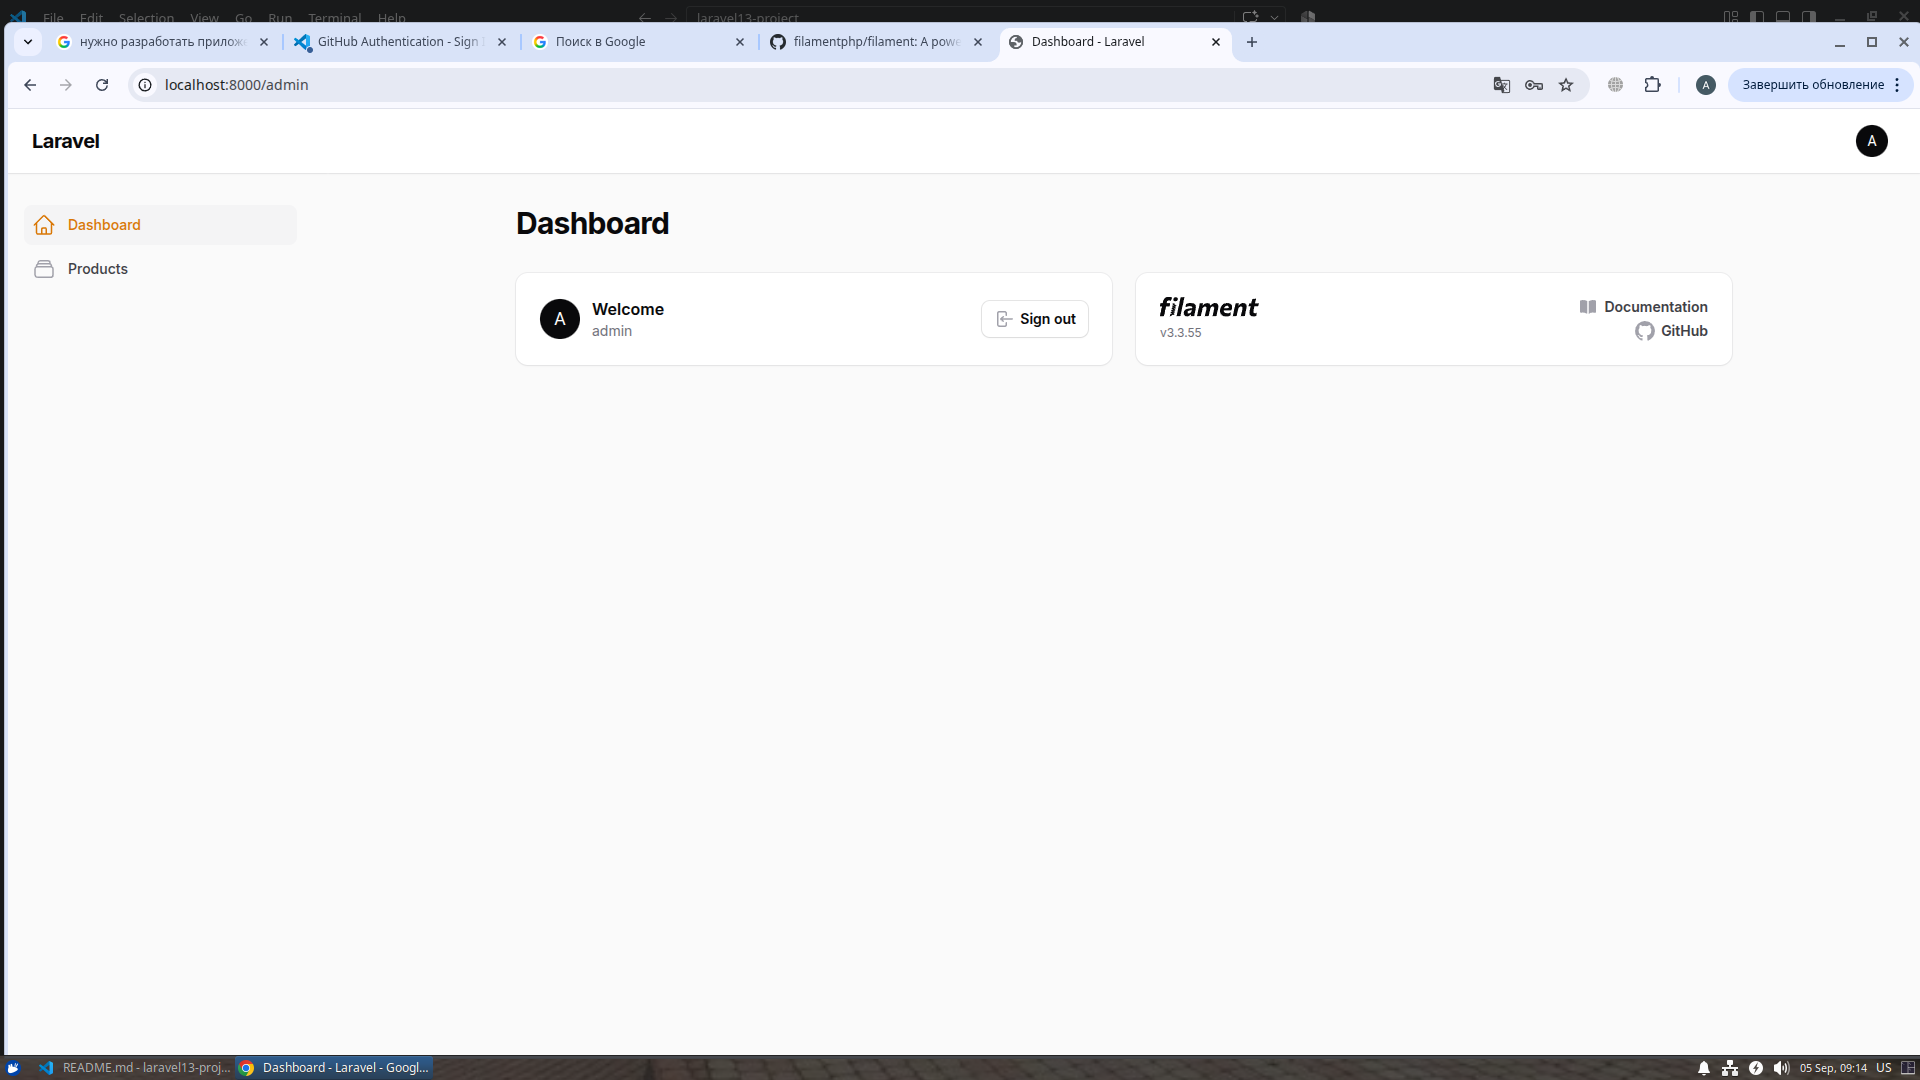
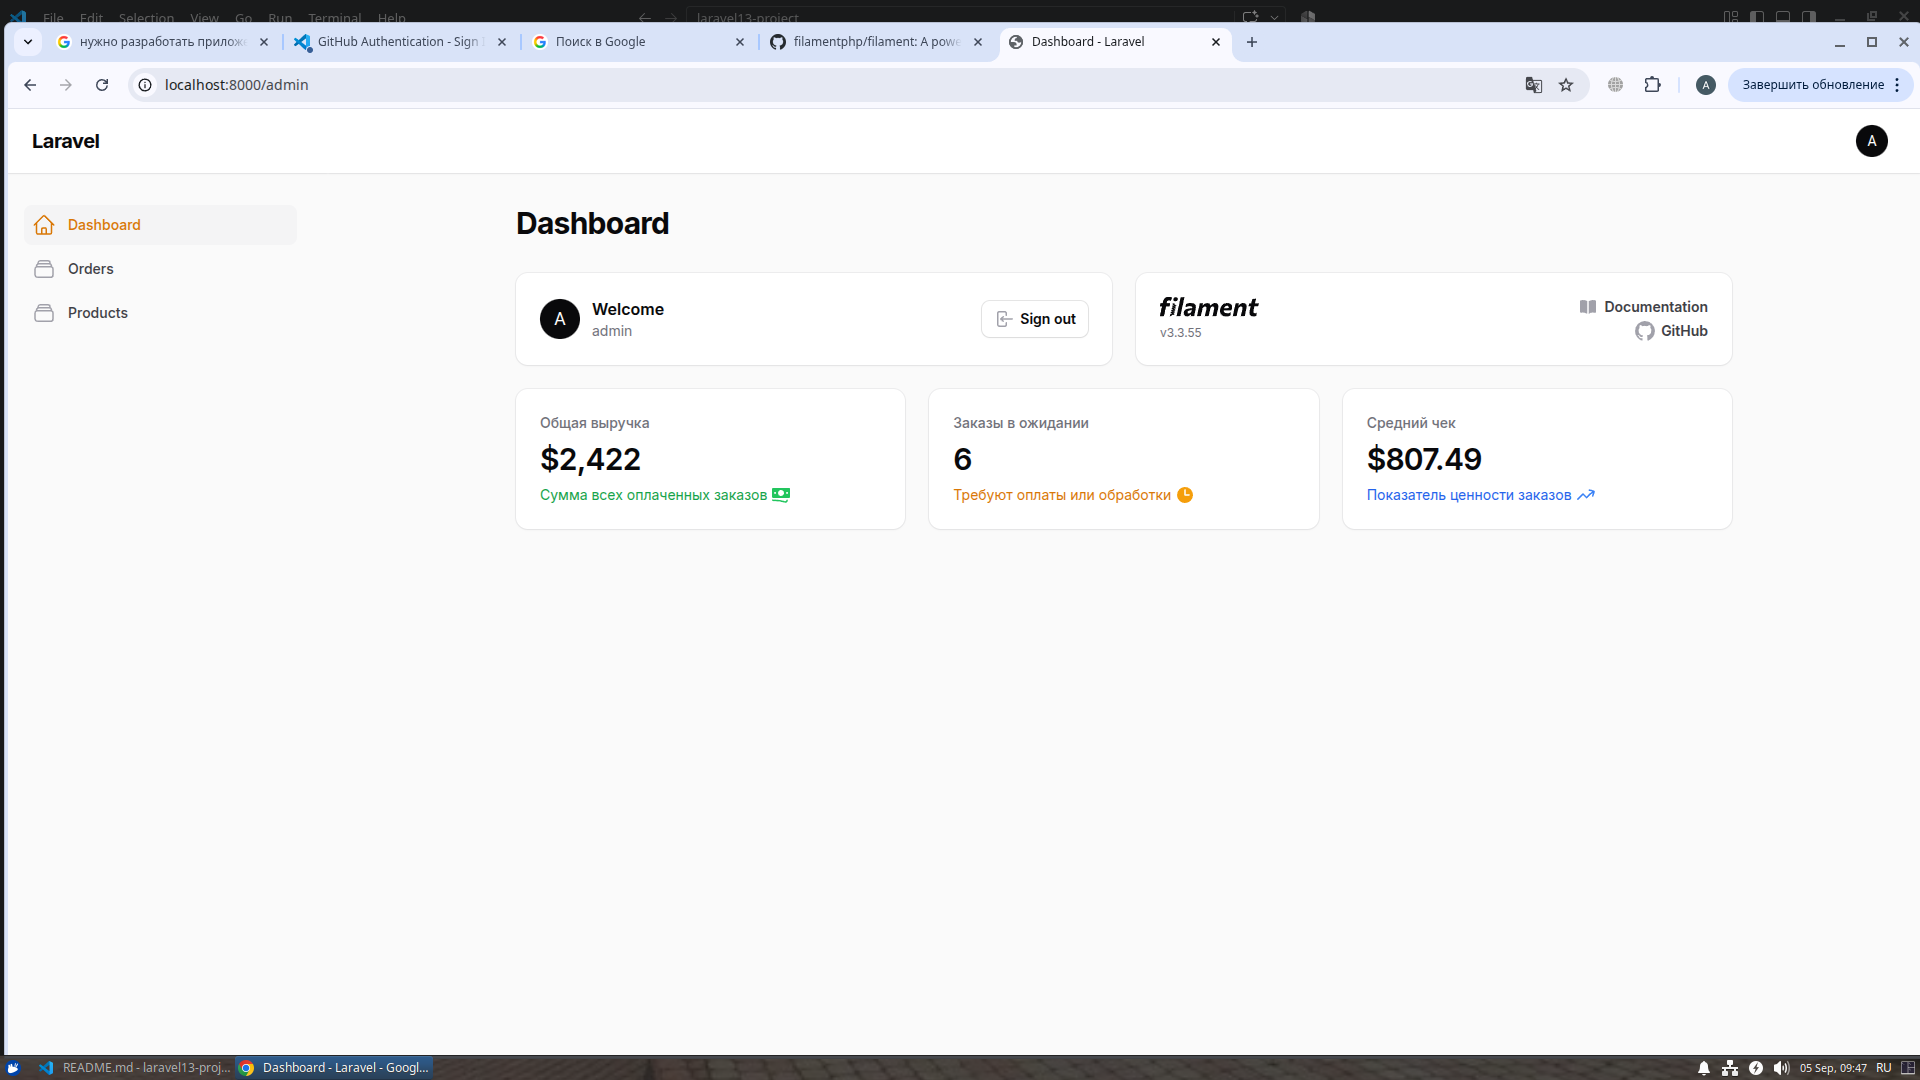
doc: Обновлена документация к проекту

diff --git a/README.md b/README.md
@@ -1,21 +1,84 @@
-## Запуск сервера
+# 🛒 Marketplace Enterprise Core (Laravel 13 DDD)
+
+Высокомасштабируемое бэкенд-ядро (REST API) для мультивендорного маркетплейса. Проект реализован с использованием **Domain-Driven Design (DDD)**, **CQRS** и **Event-Driven Architecture** для обеспечения максимальной изоляции бизнес-логики и отказоустойчивости под высокой нагрузкой.
+
+---
+
+## 🏗 Архитектурный стек и Senior-паттерны
+
+* **Domain-Driven Design (DDD):** Кодовая база разделена на независимые бизнес-домены внутри директории `src/Domain/` (`Products`, `Orders`). Слой HTTP (контроллеры и запросы) изолирован в папке `app/`.
+* **Laravel 13 Native Attributes:** Для конфигурации Eloquent-моделей (таблицы, связи, заполняемые поля `Fillable` и кастинги типов) используются современные PHP-атрибуты вместо классических защищенных массивов.
+* **Строгая типизация (DTO):** Передача данных между HTTP-слоем и бизнес-логикой осуществляется через строго типизированные объекты переноса данных (`ProductData`, `OrderData`), что исключает использование "слепых" массивов.
+* **Защита от Race Conditions (ACID):** Оформление заказов со списанием остатков товаров защищено на уровне СУБД с помощью пессимистической блокировки строк (`lockForUpdate`) внутри атомарных транзакций.
+* **Event-Driven Architecture:** Тяжелые побочные процессы (отправка уведомлений, интеграция с CRM) вынесены в асинхронные фоновые очереди через механизм доменных событий (`OrderCreated`).
+* **Паттерн Strategy (Изоляция инфраструктуры):** Слой платежных систем полностью абстрагирован через интерфейсы (`PaymentGatewayInterface`). Приложение работает с контрактом, что позволяет сменить эквайринг (Stripe, ЮKassa) изменением одной строки в `.env`.
+* **CQRS и Оптимизация чтения:** Логика вывода каталога вынесена в отдельные Query-классы и оптимизирована умным кэшированием с автоматической инвалидацией (сбросом кэша) при создании или изменении товаров.
+* **Безопасность (RBAC):** Доступ к API защищен токенами `Laravel Sanctum`, а права ролей (`customer` / `vendor`) строго разграничены на уровне классов `Laravel Policies`.
+
+---
+
+## 🚀 Инструкция по развертыванию и запуску
+
+### 1. Установка зависимостей и настройка окружения
+```bash
+composer install
+cp .env.example .env
+php artisan key:generate
+```
+
+### 2. Запуск сервера
+Запустите локальный сервер разработки с помощью встроенной команды:
 ```bash
 php artisan serve
 ```
 ![alt text](doc/image/image.png)
 
-## Имеется тест
+### 3. Автоматическое тестирование (TDD)
+В проекте реализовано 100% покрытие критически важных бизнес-процессов интеграционными и функциональными тестами (валидация запросов, транзакционное списание стоков, симуляция платежного шлюза, кэширование каталога и проверка ролей):
 ```bash
 php artisan test
 ```
 
-## В проект добавлен flilament
-http://localhost:8000/admin
+---
+
+## 🖥 Панель администрирования (Filament v3)
+
+В проект интегрирована профессиональная административная экосистема **Filament PHP** (TALL Stack), предоставляющая менеджерам аналитический дашборд и инструменты модерации контента.
+
+* **Адрес панели:** `http://localhost:8000/admin`
+
 ![alt text](doc/image/image-1.png)
-Пользователь для filament создан так
+
+Пользователь для панели Filament создается через стандартную консольную команду:
 ```bash
 php artisan make:filament-user
 ```
+![alt text](doc/image/image-3.png)
+_Примечание безопасности: В соответствии с политикой `User::canAccessPanel`, вход в административную панель разрешен только для аккаунта с email `admin@example.com`._
 
-## В проект добавлен seeders
+---
+
+## 📊 Наполнение базы данных (Seeders & Factories)
+
+В проект добавлен комплексный сидер базы данных и фабрики, учитывающие DDD-структуру моделей. Сидер автоматически генерирует демонстрационных продавцов, покупателей, товары с UUID-ключами и распределенные по календарю заказы для прогрева графиков аналитического дашборда.
+
+Чтобы полностью очистить базу данных и наполнить её тестовыми данными, выполните:
+```bash
+php artisan migrate:fresh --seed
+```
 ![alt text](doc/image/image-2.png)
+
+---
+
+## 🗂 Спецификация API Эндпоинтов (REST API)
+
+### Аутентификация
+* `POST /api/auth/register` — Регистрация нового пользователя с указанием роли (`customer` или `vendor`). Возвращает Bearer токен.
+
+### Каталог товаров (Домен Products)
+* `GET /api/products` — Публичный просмотр каталога (Пагинированный вывод + Тегированный кэш).
+* `POST /api/products` — Создание нового товара. Доступно только для пользователей с ролью `vendor` (Защищено `ProductPolicy`, требуется Bearer Token).
+
+### Заказы и платежи (Домен Orders & Infrastructure)
+* `POST /api/orders` — Оформление заказа со списанием остатков (Требуется Bearer Token). Автоматически рассчитывает стоимость, генерирует UUID и возвращает клиенту уникальную платежную ссылку шлюза.
+* `POST /api/webhooks/payment` — Публичный эндпоинт для приема входящих Webhook-уведомлений об оплате от банка. Защищен кастомной подписью `X-Payment-Signature` и паттерном идемпотентности от повторных запросов.
